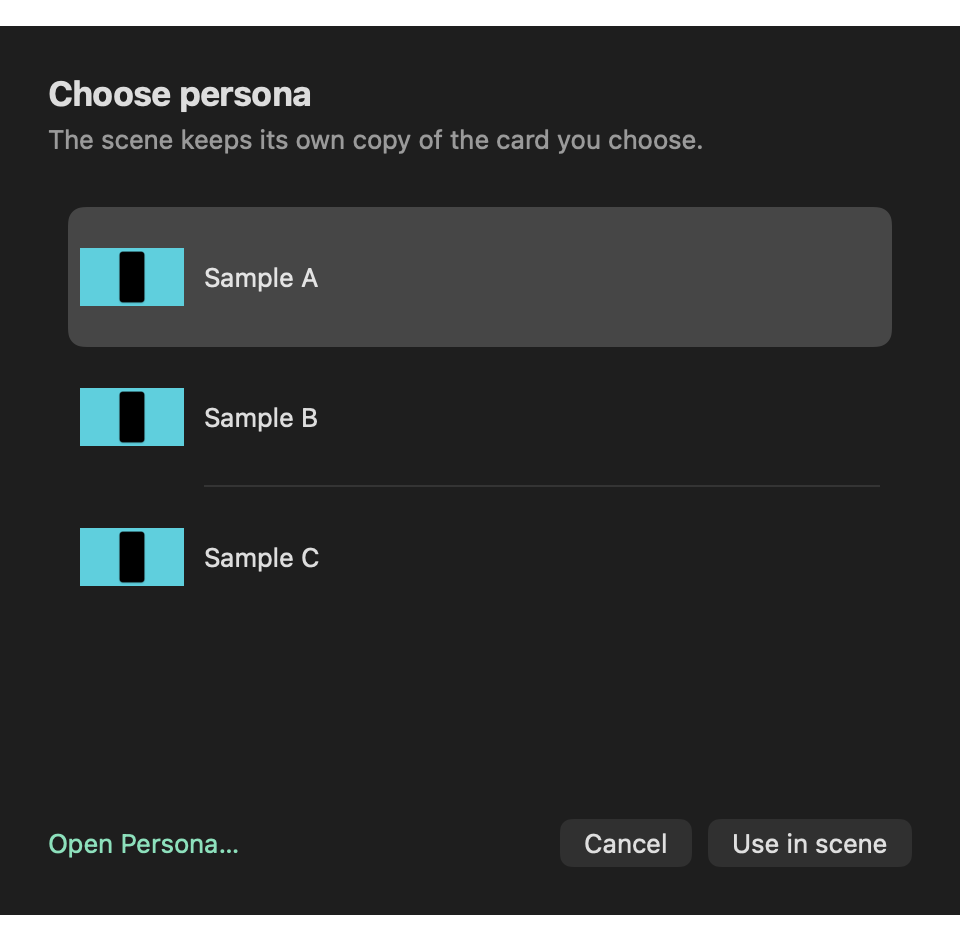
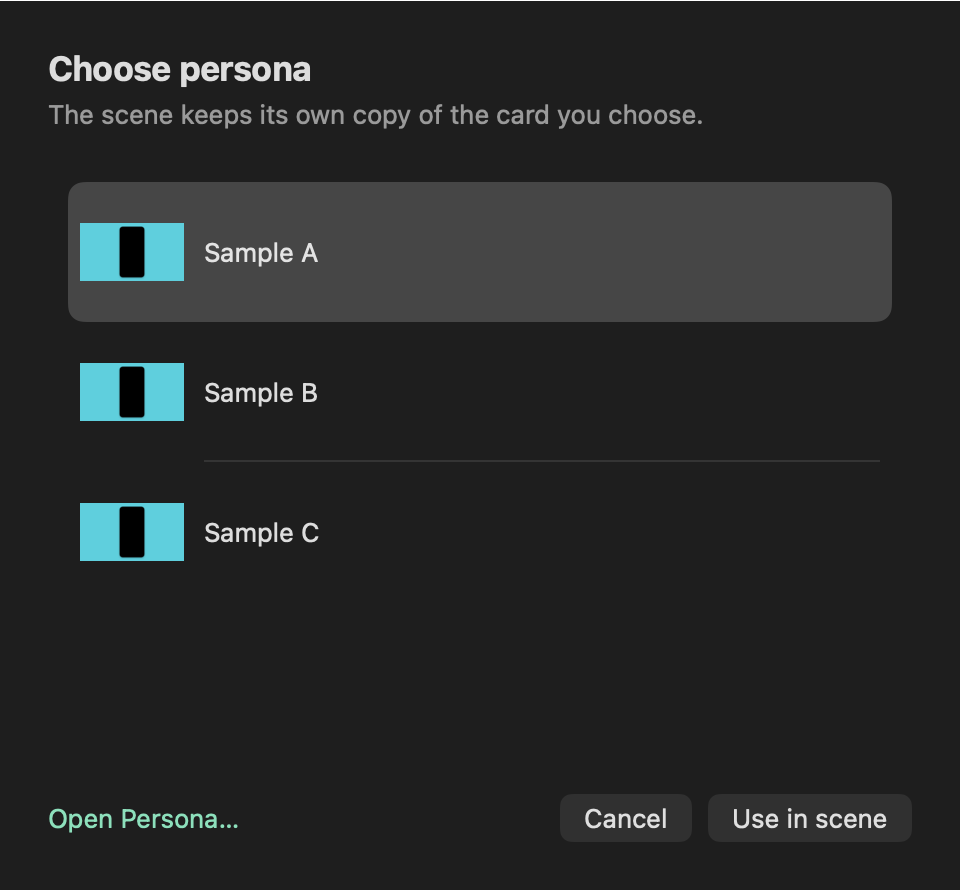
Presenting verification: the chooser renders at the height a sheet gives it
The layout evidence drew the chooser inside a taller frame, so its spare space came out white above and below the dark render. It now renders at the chooser's fitting height, and both renders are regenerated.

diff --git a/Tests/StageKitLegacy/PersonaWorkspaceTests.swift b/Tests/StageKitLegacy/PersonaWorkspaceTests.swift
@@ -287,8 +287,11 @@ final class PersonaWorkspaceTests {
             try FileManager.default.createDirectory(at: chooserRoot, withIntermediateDirectories: true)
             let (chooserScenes, chooserScene, _, _) = try chooserFixture(in: chooserRoot)
             defer { chooserScenes.shutdown() }
+            // A sheet takes its content's height, so render at that height rather than inside a
+            // taller frame whose spare space would draw no background.
+            let chooserHeight = ceil(NSHostingView(rootView: PersonaSceneChooser(model: chooserScenes, sceneID: chooserScene)).fittingSize.height)
             for (name, appearance) in [("present-persona-chooser-light", NSAppearance.Name.aqua), ("present-persona-chooser-dark", .darkAqua)] {
-                try render(PersonaSceneChooser(model: chooserScenes, sceneID: chooserScene), size: CGSize(width: 480, height: 470),
+                try render(PersonaSceneChooser(model: chooserScenes, sceneID: chooserScene), size: CGSize(width: 480, height: chooserHeight),
                            to: directory.appendingPathComponent(name + ".png"), appearance: NSAppearance(named: appearance))
             }
             library.usesSharedControls = true
